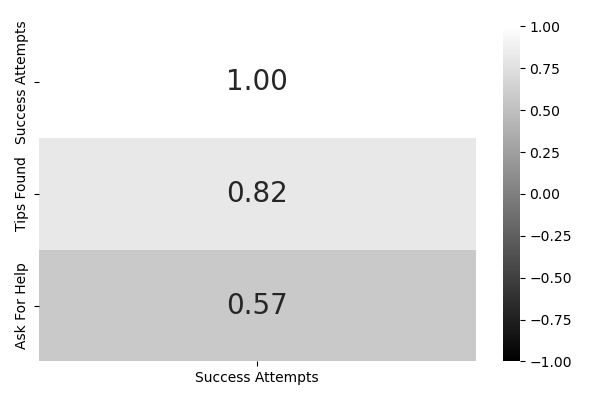
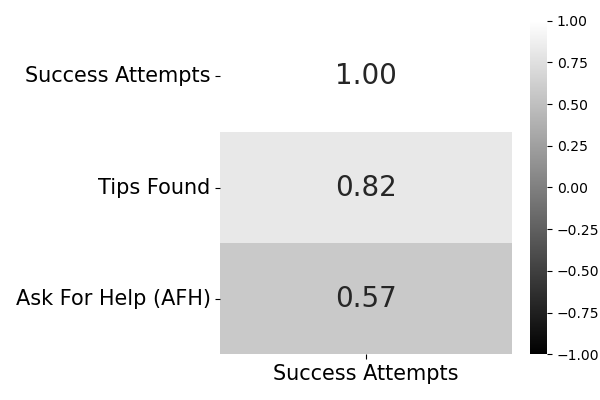
Improved clarity of heatmap

diff --git a/README.md b/README.md
@@ -1,0 +1,25 @@
+# ChemistLab Learning Effectiveness
+This repository is to perform quantitative analysis on which metric is more effective on assisting user in acquiring Success Attempts.
+
+## Introduction
+This is a part of my Final Year Project, where all interaction data from Unreal Engine 4/Firebase Realtime-Database are collected and only selected metrics (Success Attempts/Tips Found/Ask For Help) will be analyzed in this section. This is conducted under Learning Effectiveness in **Section VI: Testing**.
+
+## File Structure
+```
+.
+├── csv                               # Exported csv directory
+│   └── export.csv                    # Generated CSV file from index.js
+├── lib                               # TypeScript directory
+│   ├── api                           # TypeScript interfaces
+│   │   ├── Data.ts/Data.js           # Interface for json file
+│   └── Extractor.ts/Extractor.js     # To extract data from json file and convert into csv
+├── py                                # Python directory        
+│   ├── heatmap.png                   # Generated correlation heatmap from learning_effectiveness.ipynb
+│   └── learning_effectiveness.ipynb  # To perform quantitative analysis using data mining approach
+├── src                               # Data source directory
+│   └── chemistlabue-export.json      # Exported data of ChemistLab from Firebase Realtime-Database                      
+├── index.ts/index.js                 # Main executable to generate csv
+└── ... 
+```
+## License
+© 2021 - 2022 Multimedia University. All Rights Reserved.
